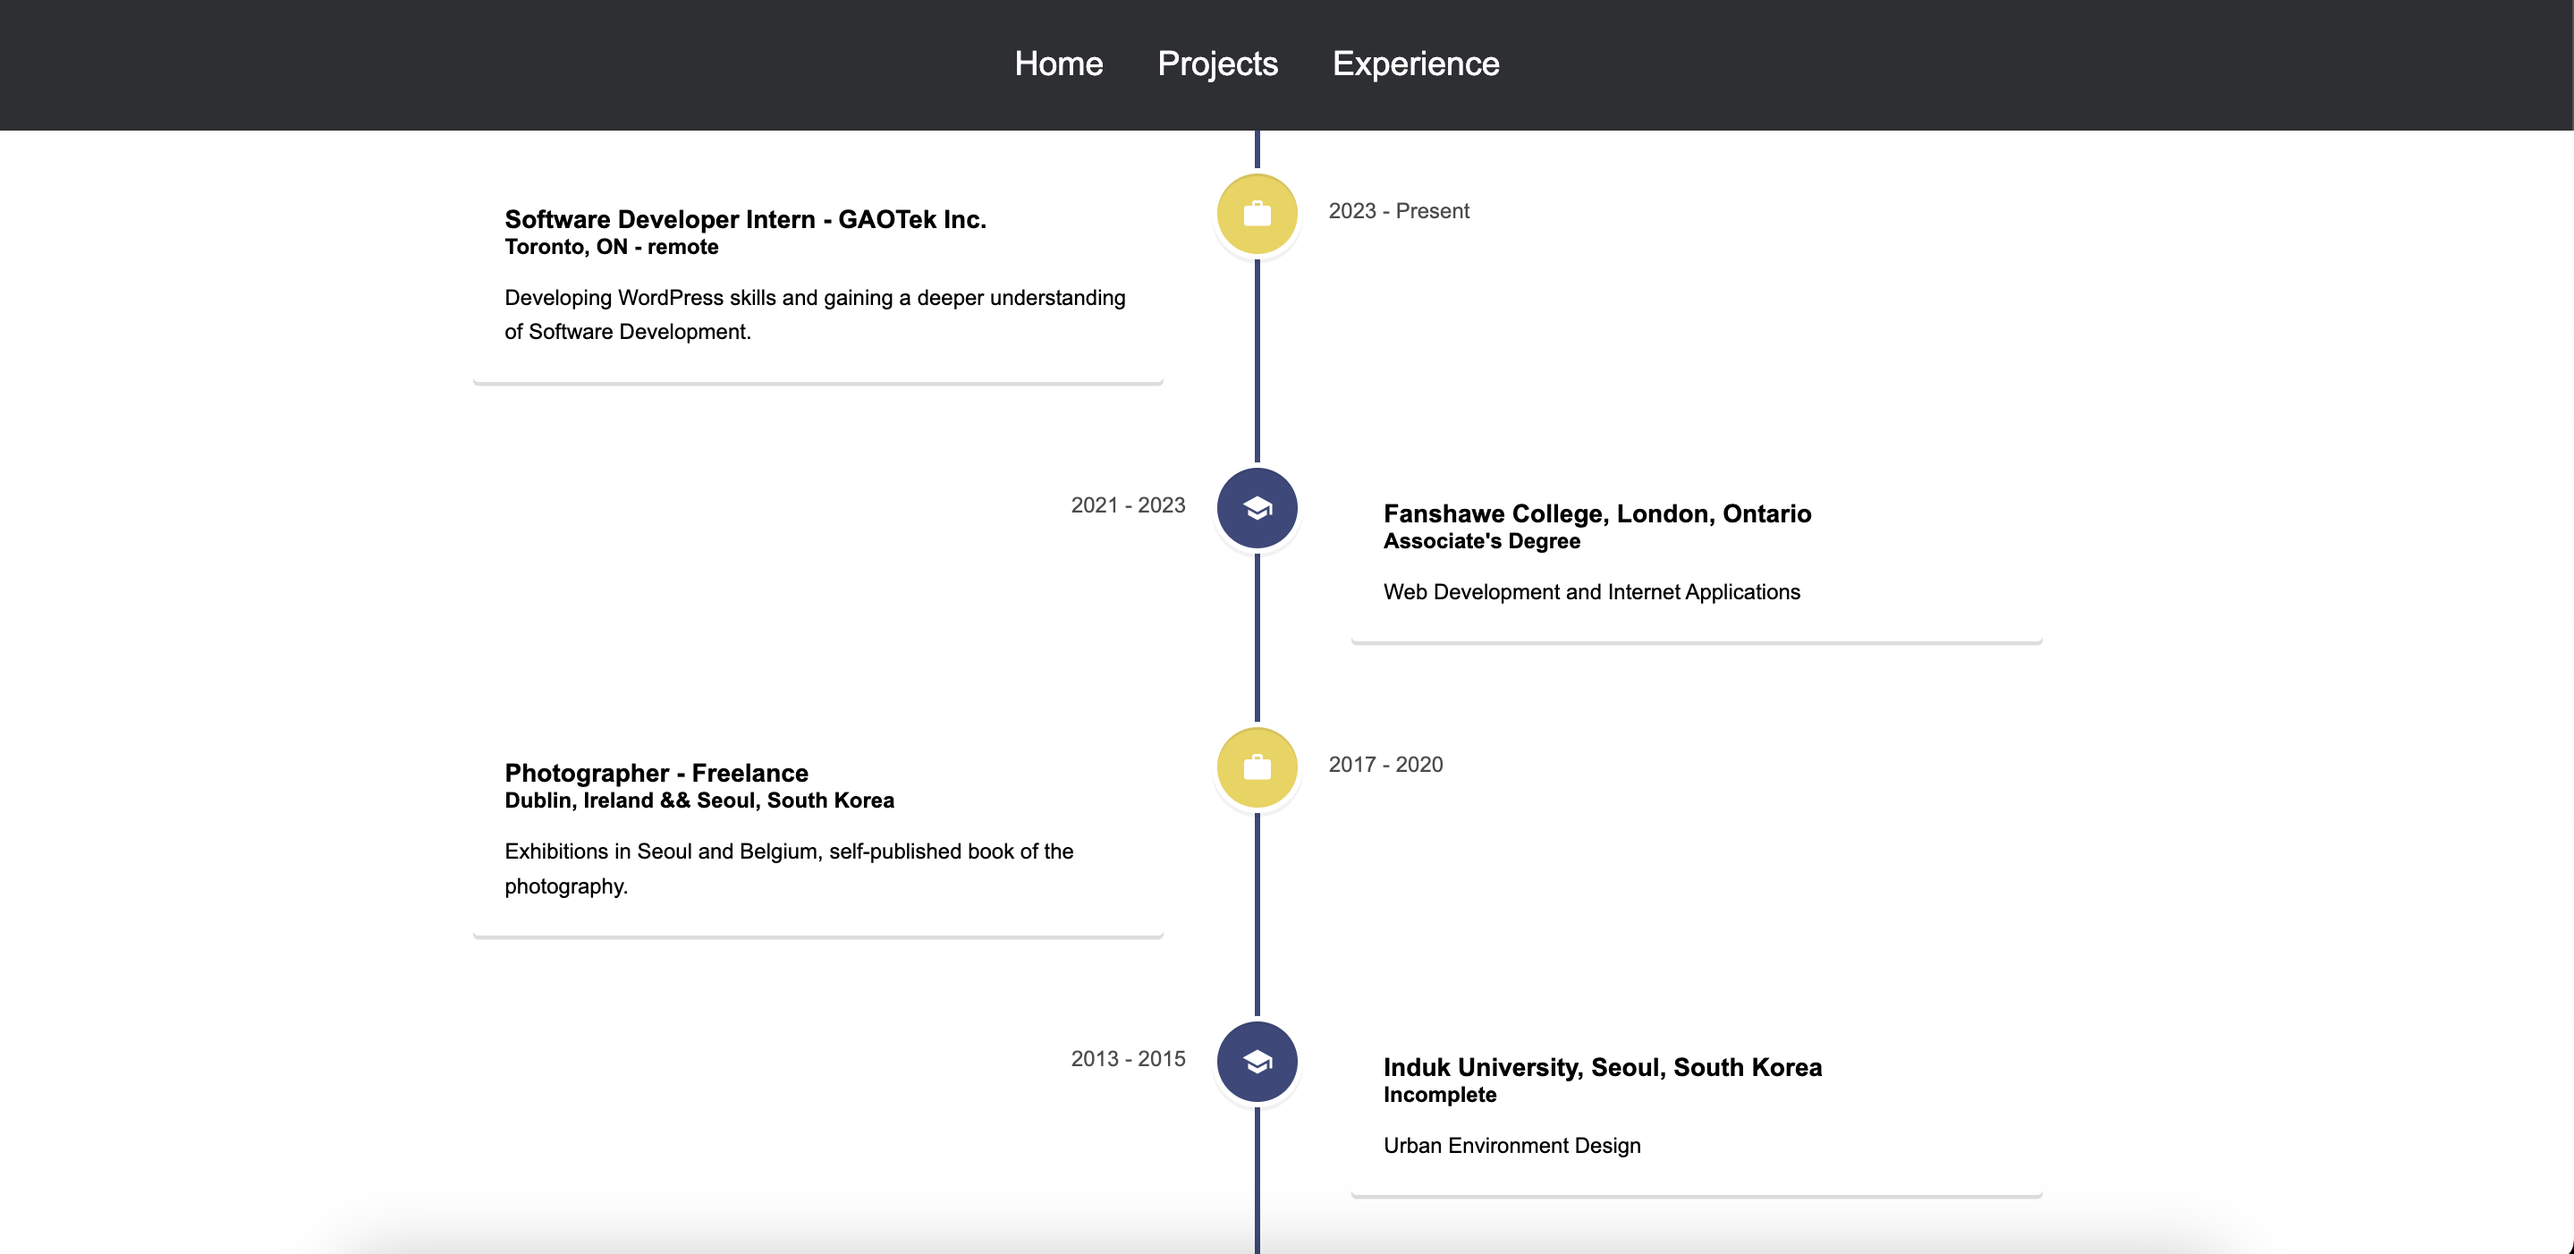
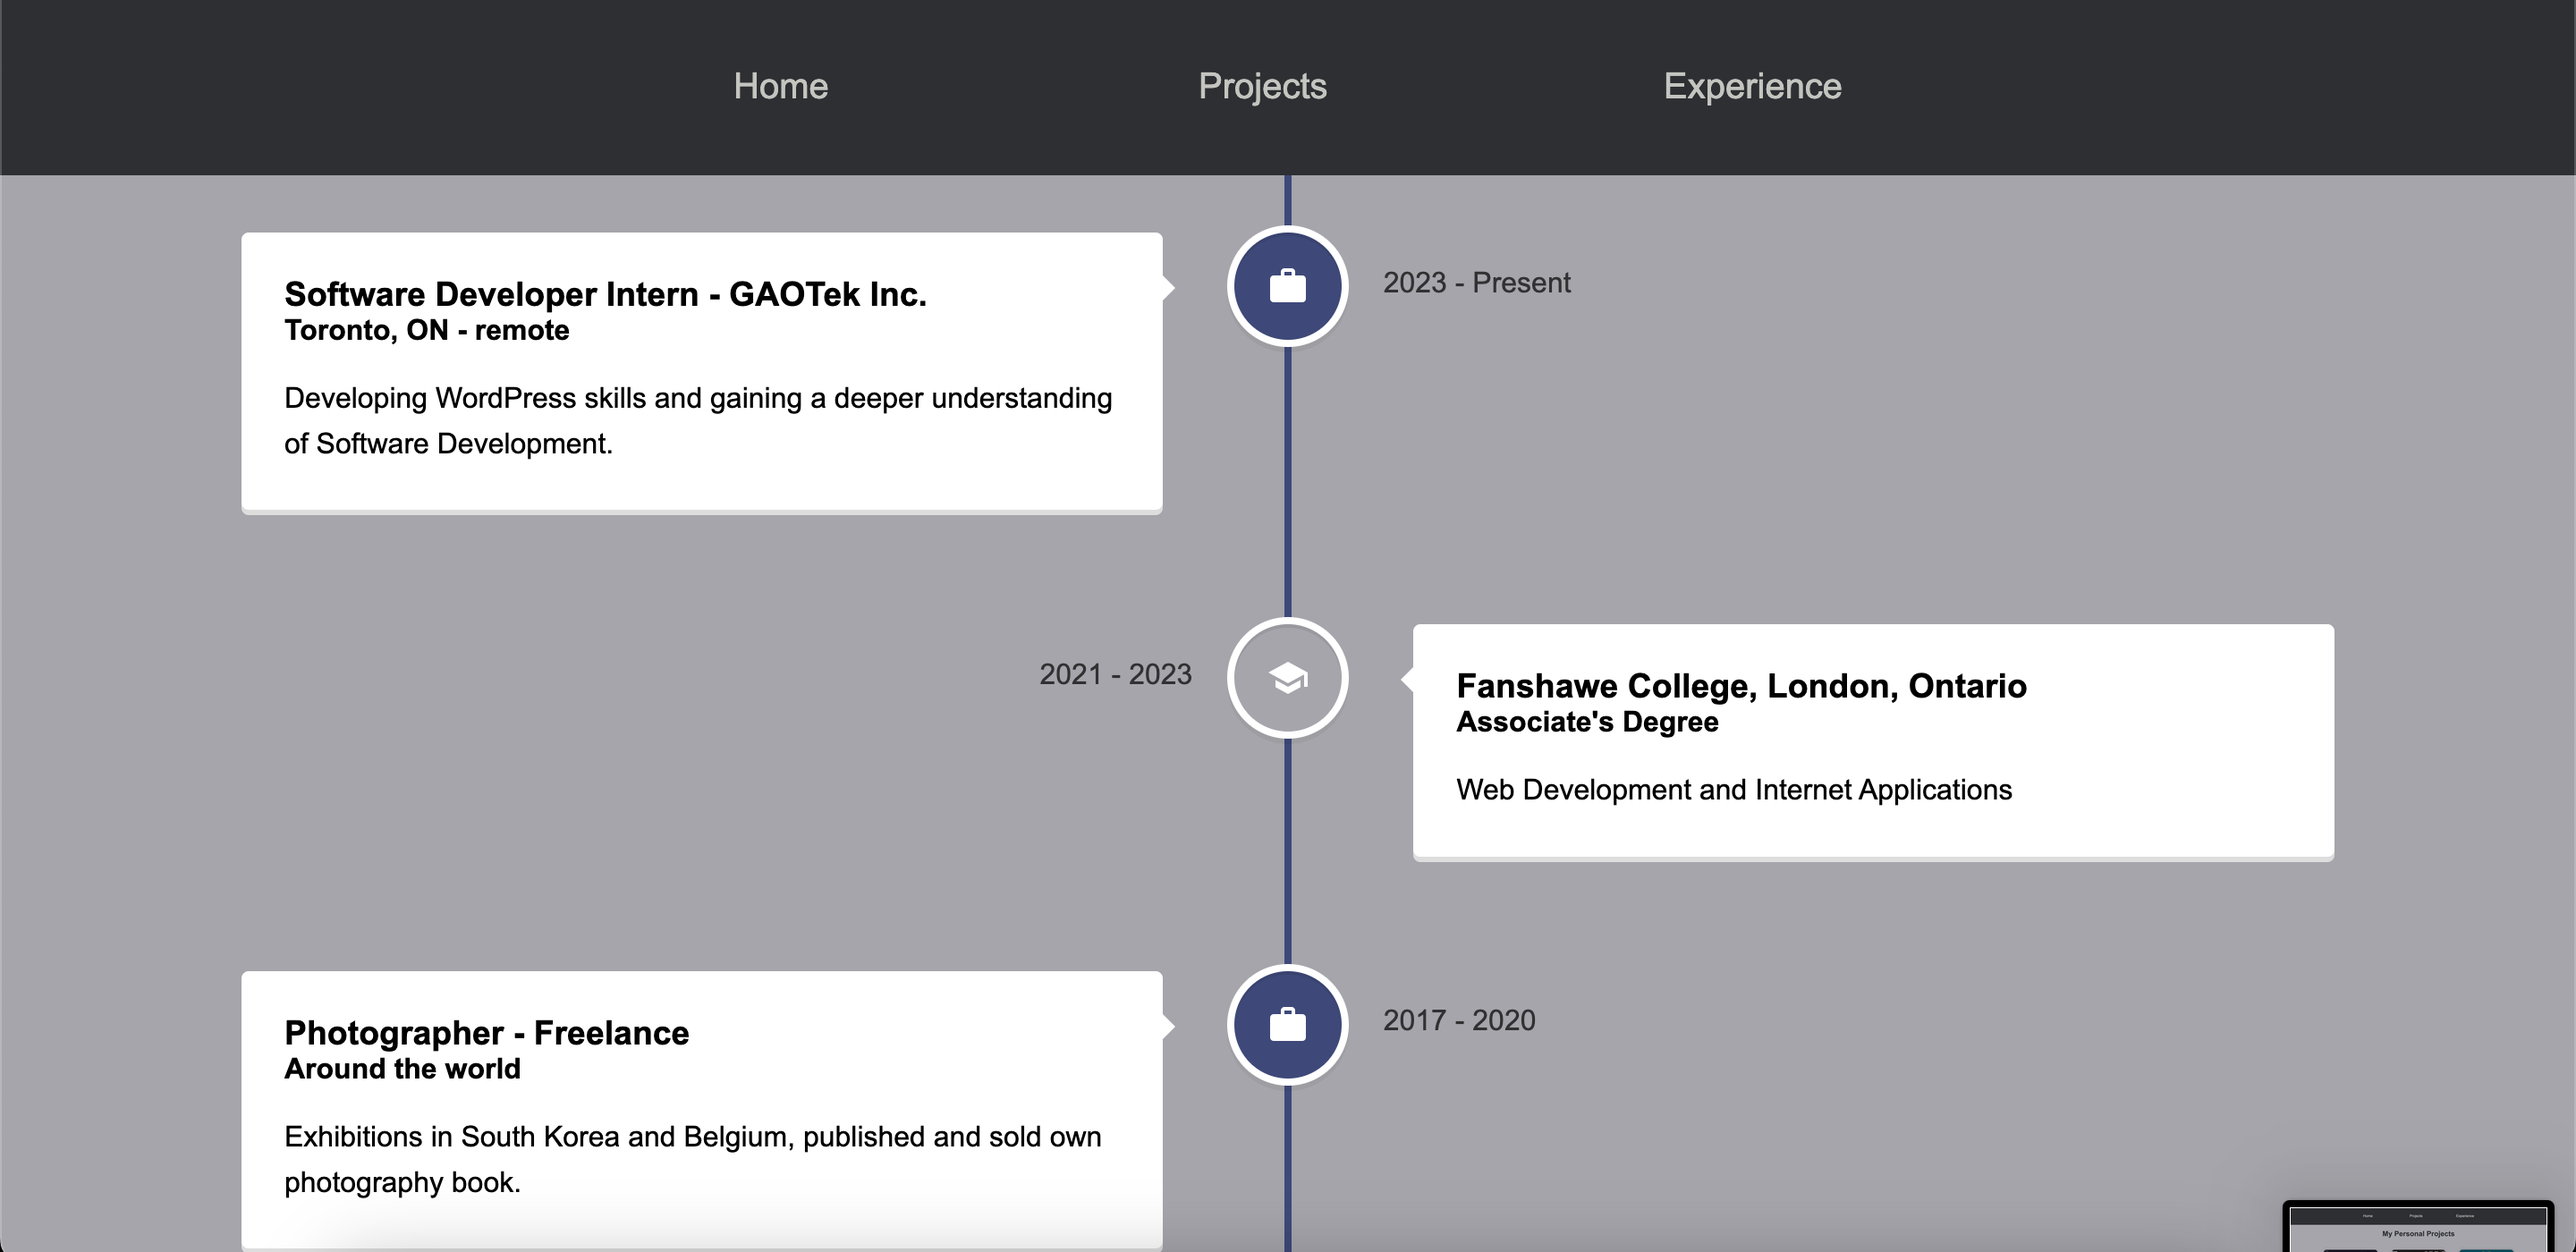
updated

diff --git a/src/pages/Experience.js b/src/pages/Experience.js
@@ -6,12 +6,12 @@ import WorkIcon from '@material-ui/icons/Work';
 
 export default function Experience() {
   return (
-    <div className='experience'>
+    <div className='experience' style={{backgroundColor: '#a5a5ac'}}>
       <VerticalTimeline lineColor='#3e497a'>
         <VerticalTimelineElement
           className='vertical-timeline-element--education'
           date='2023 - Present'
-          iconStyle={{ background: '#e9d35b', color: '#fff' }}
+          iconStyle={{ background: '#3e497a', color: '#fff' }}
           icon={<WorkIcon />}
         >
           <h3 className='vertical-timeline-element-title'>
@@ -26,7 +26,7 @@ export default function Experience() {
         <VerticalTimelineElement
           className='vertical-timeline-element--education'
           date='2021 - 2023'
-          iconStyle={{ background: '#3e497a', color: '#fff' }}
+          iconStyle={{ background: '#a5a5ac', color: '#fff' }}
           icon={<SchoolIcon />}
         >
           <h3 className='vertical-timeline-element-title'>
@@ -41,7 +41,7 @@ export default function Experience() {
         <VerticalTimelineElement
           className='vertical-timeline-element--education'
           date='2017 - 2020'
-          iconStyle={{ background: '#e9d35b', color: '#fff' }}
+          iconStyle={{ background: '#3e497a', color: '#fff' }}
           icon={<WorkIcon />}
         >
           <h3 className='vertical-timeline-element-title'>
@@ -56,7 +56,7 @@ export default function Experience() {
         <VerticalTimelineElement
           className='vertical-timeline-element--education'
           date='2013 - 2015'
-          iconStyle={{ background: '#3e497a', color: '#fff' }}
+          iconStyle={{ background: '#a5a5ac', color: '#fff' }}
           icon={<SchoolIcon />}
         >
           <h3 className='vertical-timeline-element-title'>
@@ -71,7 +71,7 @@ export default function Experience() {
         <VerticalTimelineElement
           className='vertical-timeline-element--education'
           date='2009 - 2012'
-          iconStyle={{ background: '#3e497a', color: '#fff' }}
+          iconStyle={{ background: '#a5a5ac', color: '#fff' }}
           icon={<SchoolIcon />}
         >
           <h3 className='vertical-timeline-element-title'>

diff --git a/src/styles/Home.css b/src/styles/Home.css
@@ -1,4 +1,4 @@
-video {
+img {
   object-fit: cover;
   width: 100%;
   height: 100%;
@@ -21,13 +21,13 @@ video {
   justify-content: center;
   align-items: center;
   text-align: center;
-  color: #f0f0f0;
+  color: #c4c4c0;
 }
 
 .about h2 {
   font-family: "Segoe UI", Tahoma, Geneva, Verdana, sans-serif;
   font-size: 60px;
-  color: #e9d35b;
+  color: #c4c4c0;
   height: 50px;
 }
 
@@ -39,11 +39,11 @@ video {
   font-size: 50px;
   margin: 1px;
   padding: 1rem;
-  color: white;
+  color: #c4c4c0;
 }
 
 .skills {
-  background-color: white;
+  background-color: #a5a5ac;
   font-size: 35px;
   width: 100%;
   display: flex;

diff --git a/src/pages/Home.js b/src/pages/Home.js
@@ -3,14 +3,14 @@ import GithubIcon from '@material-ui/icons/GitHub';
 import CVIcon from '@material-ui/icons/FileCopyTwoTone';
 import Resume from '../assets/Resume.pdf';
 import '../styles/Home.css';
-import homeVideo from './../video/page.mp4';
+import background from './../assets/background.jpg';
 
 export default function Home() {
 
   return (
     <div className='home'>
       <div className='about'>
-        <video src={homeVideo} autoPlay loop muted />
+        <img src={background} alt='background' />
 
         <h2>Hi, My Name is Jaejin L.</h2>
         <div className='prompt'>

diff --git a/src/styles/Navbar.css b/src/styles/Navbar.css
@@ -15,11 +15,11 @@
   display: flex;
   align-items: center;
   justify-content: center;
-  color: white;
+  color: #c4c4c0;
 }
 
 .navbar a {
-  color: white;
+  color: #c4c4c0;
   text-decoration: none;
   margin: 5rem;
   font-size: 20px;
@@ -39,7 +39,7 @@
   margin-right: 20px;
   background-color: transparent;
   border: none;
-  color: white;
+  color: #c4c4c0;
   cursor: pointer;
 }
 

diff --git a/src/components/Navbar.js b/src/components/Navbar.js
@@ -27,6 +27,7 @@ export default function Navbar() {
         <Link to='/'> Home </Link>
         <Link to='/projects'> Projects </Link>
         <Link to='/experience'> Experience </Link>
+        <Link to='/photography'> Photography </Link>
       </div>
     </div>
   );

diff --git a/src/styles/Projects.css b/src/styles/Projects.css
@@ -1,4 +1,5 @@
 .projects {
+  background-color: #a5a5ac;
   width: 100%;
   height: auto;
   display: flex;
@@ -23,6 +24,7 @@
 /* MENU ITEM STYLING */
 
 .projectItem {
+  background-color: rgb(216, 218, 219);
   border-radius: 15px;
   width: 300px;
   height: 300px;

diff --git a/src/styles/Footer.css b/src/styles/Footer.css
@@ -10,14 +10,14 @@
 }
 
 .socialMedia svg {
-  color: white;
+  color: #c4c4c0;
   margin: 20px;
   font-size: 50px;
   cursor: pointer;
 }
 
 .footer p {
-  color: white;
+  color: #c4c4c0;
 }
 
 @media only screen and (max-width: 600px) {
